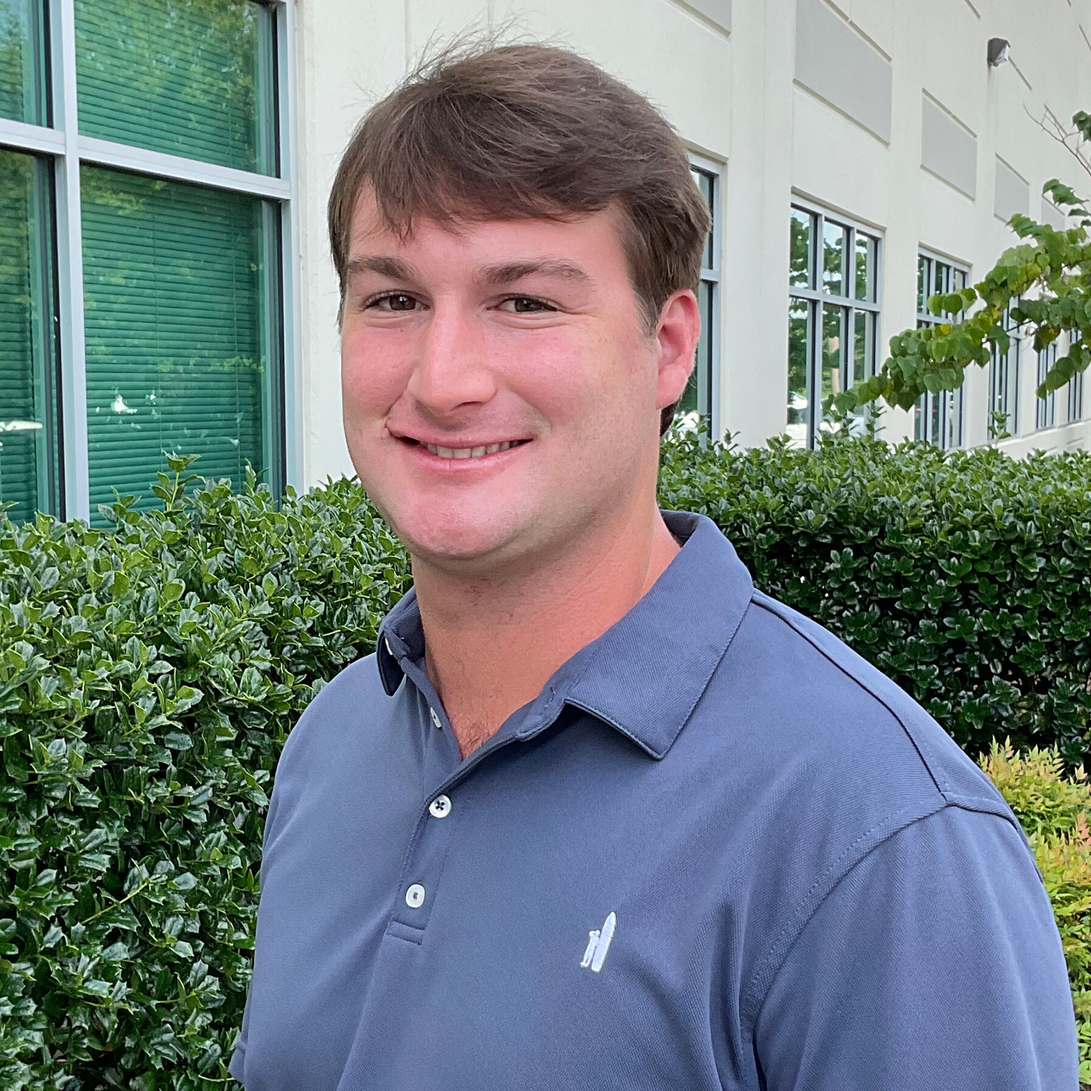
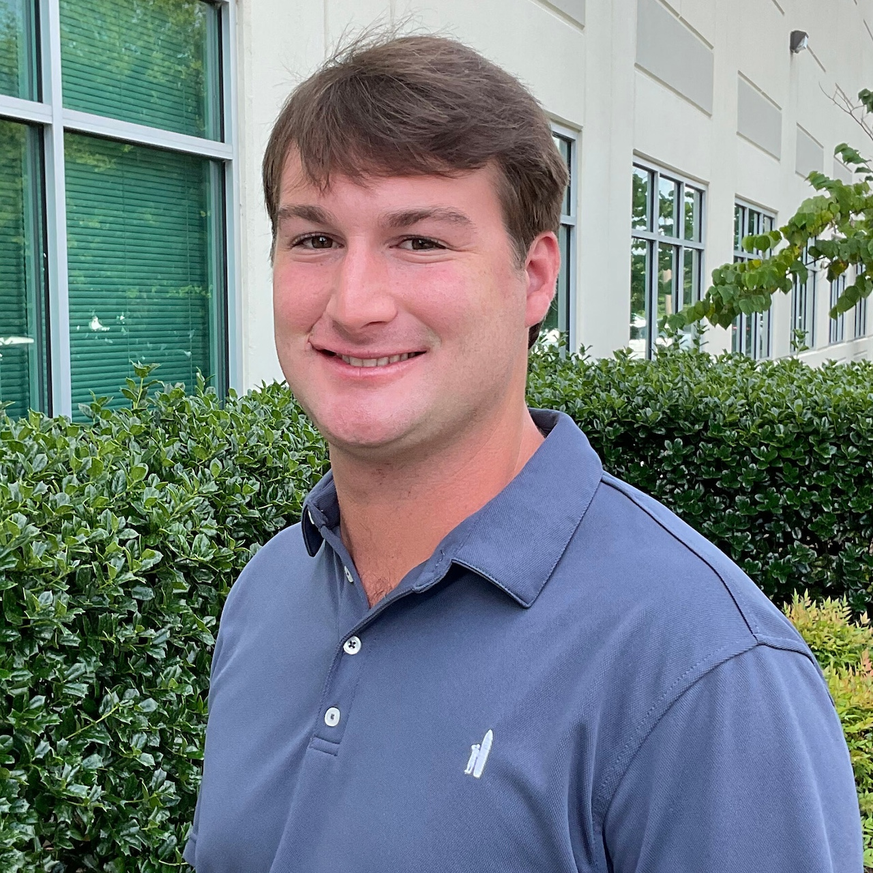
Add last names, adjust formatting, improve image sizes

Changed region(s): [[0.3125, 0.5, 0.3438, 0.5312]]

diff --git a/src/components/TeamMember.scss b/src/components/TeamMember.scss
@@ -9,11 +9,14 @@
   text-align: center;
 
   margin: 0.5rem 1rem;
-  font-size: 12pt;
+
+  &:first-child, &:nth-child(2) {
+    flex-basis: 40%;
+  }
 
 
   &__photo {
-    height: 8rem;
+    height: 7rem;
 
     aspect-ratio: 1 / 1;
 
@@ -26,12 +29,29 @@
     }
   }
 
-  span {
-    font-size: 14pt;
+  &__name {
+    max-width: 7rem;
+
+    font-size: 12pt;
+
     font-weight: 500;
+
+    @include tablet {
+      font-size: 13pt;
+
+      max-width: 10rem;
+    }
   }
 
-  i {
-    font-size: 11pt;
+  &__title {
+    max-width: 7rem;
+
+    font-size: 10pt;
+
+    @include tablet {
+      font-size: 11pt;
+
+      max-width: 10rem;
+    }
   }
 }

diff --git a/src/components/TeamMember.js b/src/components/TeamMember.js
@@ -4,15 +4,15 @@ import { GatsbyImage } from 'gatsby-plugin-image'
 
 import './TeamMember.scss'
 
-const TeamMember = ({ photo, name, title, email }) => (
+const TeamMember = ({ photo, name, title }) => (
   <div className="team-member">
     <GatsbyImage
       image={photo.childImageSharp.gatsbyImageData}
       alt={name}
       className="team-member__photo"
     ></GatsbyImage>
-    <span>{name}</span>
-    <i>{title}</i>
+    <span className="team-member__name">{name}</span>
+    <i className="team-member__title">{title}</i>
   </div>
 )
 

diff --git a/src/pages/our-company/index.md b/src/pages/our-company/index.md
@@ -5,62 +5,65 @@ heading: Our Company
 ourTeamHeading: Meet Our Team
 team:
   - photo: ../../../static/uploads/Paige_President.jpg
-    name: Paige
+    name: Paige Ferguson Burgess
     title: President
+  - photo: ../../../static/uploads/chip_ferguson.jpg
+    name: Chip Ferguson
+    title: Vice President
   - photo: ../../../static/uploads/Aiden_Design.jpg
-    name: Aiden
+    name: Aiden Murphy
     title: Design
   - photo: ../../../static/uploads/Barry_Sales.jpg
-    name: Barry
-    title: Sales
+    name: Barry Gettys
+    title: Packaging Consultant
   - photo: ../../../static/uploads/Ben_Customer_Service.jpg
-    name: Ben
+    name: Ben Burgess
     title: Customer Service
   - photo: ../../../static/uploads/Danny_Plant_Manager.jpg
-    name: Danny
+    name: Danny Boone
     title: Plant Manager
   - photo: ../../../static/uploads/Erin_Sales_Customer_Service.jpg
-    name: Erin
-    title: Sales/Customer Service
+    name: Erin Josey
+    title: Packaging Consultant Customer Service
   - photo: ../../../static/uploads/Heather_HR_Manager.jpg
-    name: Heather
+    name: Heather Puskas
     title: HR Manager
   - photo: ../../../static/uploads/Janice_Controller.jpg
-    name: Janice
+    name: Janice Rappleyea
     title: Controller
   - photo: ../../../static/uploads/Jasen_Sales.jpg
-    name: Jasen
-    title: Sales
+    name: Jasen Nolff
+    title: Packaging Consultant
   - photo: ../../../static/uploads/Jeff.jpg
-    name: Jeff
-    title: Sales
+    name: Jeff Hargett
+    title: Packaging Consultant
   - photo: ../../../static/uploads/Jenna_Packaging_Consultant.jpg
-    name: Jenna
+    name: Jenna Carney
     title: Packaging Consultant
   - photo: ../../../static/uploads/JohnF_Sales.jpg
-    name: John F.
-    title: Sales
+    name: John Furr
+    title: Packaging Consultant
   - photo: ../../../static/uploads/JohnP_Sales.jpg
-    name: John P.
-    title: Sales
+    name: John Patyk
+    title: Packaging Consultant
   - photo: ../../../static/uploads/Marla_Receptionist.jpg
-    name: Marla
+    name: Marla Whisenant
     title: Receptionist
   - photo: ../../../static/uploads/Nathan_Process_Improvement_Manager.jpg
-    name: Nathan
+    name: Nathan Humston
     title: Process Improvement Manager
   - photo: ../../../static/uploads/Sam_Packaging_Consultant.jpg
-    name: Sam
+    name: Sam Wrenn
     title: Packaging Consultant
   - photo: ../../../static/uploads/Steve_Transportation_Supervisor.jpg
-    name: Steve
+    name: Steve Crosby
     title: Transportation Supervisor
   - photo: ../../../static/uploads/Tammy_Customer_Service_Manager.jpg
-    name: Tammy
+    name: Tammy Gesselbauer
     title: Customer Service Manager
   - photo: ../../../static/uploads/Toby_Sales.jpg
-    name: Toby
-    title: Sales
+    name: Toby Chrisley
+    title: Packaging Consultant
 
 ---
 - - -
